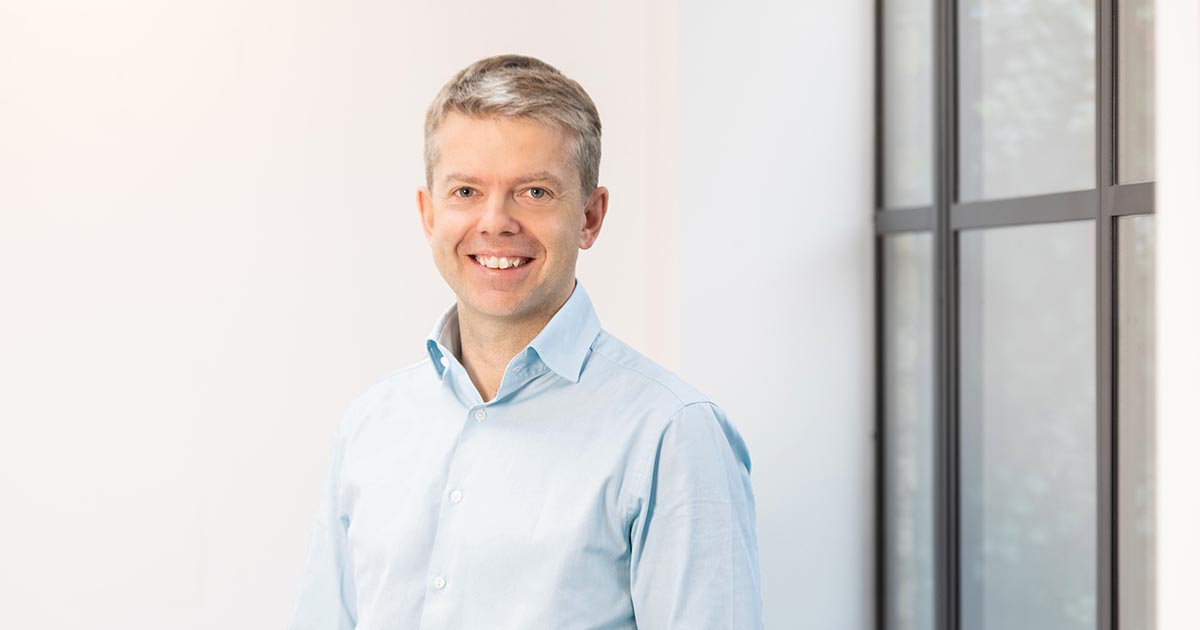
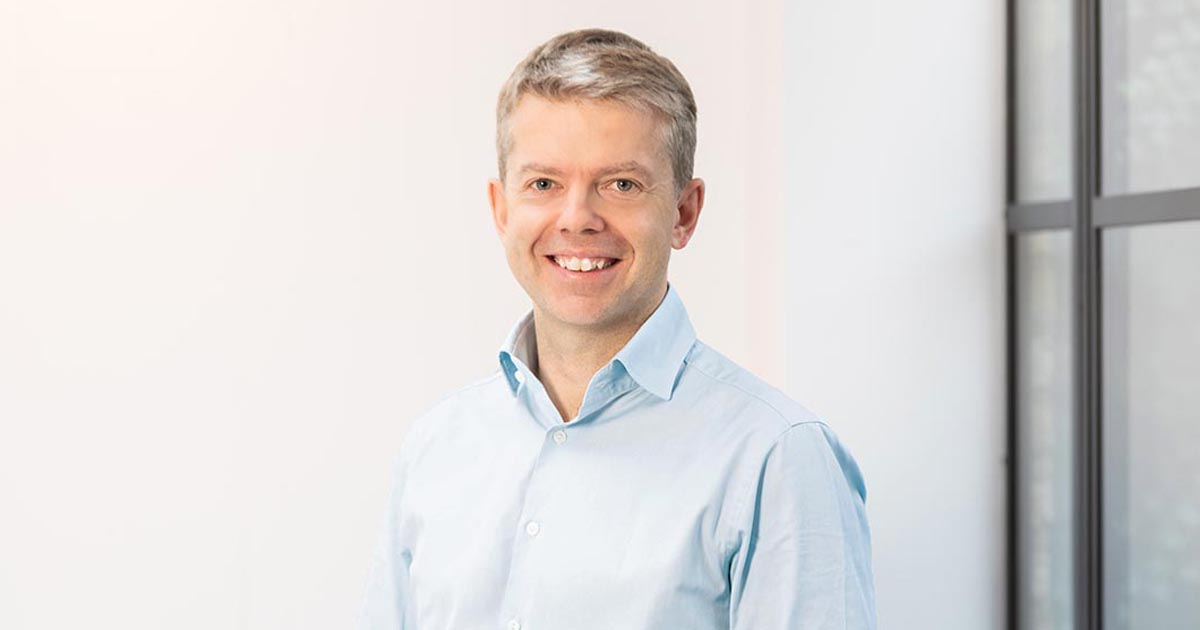
Client feedback

diff --git a/src/components/Benefits.js b/src/components/Benefits.js
@@ -10,13 +10,13 @@ const Benefits = () => (
 		<Container>
 			<h2 className='benefits__heading'>In This Video Masterclass You'll Discover:</h2>
 			<ul className='benefits__list'>
-				<li className='benefits__list-item'>The thinking mistake that costs business owners thousands that you can avoid</li>
+				<li className='benefits__list-item'>The thinking mistake that costs entrepreneurs thousands that you can avoid</li>
 				<li className='benefits__list-item'>The biggest underused online asset that you can turn into an engine of revenue</li>
-				<li className='benefits__list-item'>A step-by-step guide to a huge shortcut to online partnerships that can get you turbo charged growth</li>
-				<li className='benefits__list-item'>How to create passive recurring revenue for your business so you can increase your income and reduce your stress</li>
+				<li className='benefits__list-item'>A HUGE shortcut to online partnerships that can turbo charge your growth guide to a huge shortcut to online partnerships that can get you turbo charged growth</li>
+				<li className='benefits__list-item'>A step-by-step guide to PASSIVE recurring revenue for your business so you can reduce your stress and increase your income </li>
 			</ul>
 			<p className='benefits__para'><strong>And lots LOTS more!</strong></p>
-			<p className='benefits__para'>This is a unique chance to learn what really works online and get a huge shortcut in your business progress</p>
+			<p className='benefits__para'><strong>This is a unique chance to learn what really works online.</strong></p>
 			<p className='spaced'><strong>Click here to watch the video masterclass:</strong></p>
 			<button className='btn'>Show Me The Video</button>
 		</Container>

diff --git a/src/components/Intro.js b/src/components/Intro.js
@@ -8,20 +8,26 @@ import Container from './Container'
 // Video
 import Video from '../video/intro/feel-good-inc.mp4'
 
-const Intro = () => (
-	<section className='intro'>
-		<Container>
-			<video autoPlay muted loop className="intro__video">
-				<source src={Video} type="video/mp4"/>
-			</video>
+export default function Intro() {
+	const openModal = () => {
+		alert()
+	}
 
-			<div className='intro__copy'>
-				<div className='intro__logo'>Transform My Business</div>
-				<h1 className='intro__heading'>How you can make more revenue online without wasting time or burning cash</h1>
-				<button className='btn'>Show Me The Video</button>
-			</div>
-		</Container>
-	</section>
-)
+	return (
+		<section className='intro'>
+			<Container>
+				<video autoPlay muted loop className="intro__video">
+					<source src={Video} type="video/mp4"/>
+				</video>
 
-export default Intro
+				<div className='intro__copy'>
+					<h1 className='intro__heading'>How I built Transform My Poker</h1>
+					<h2 className='intro__subheading'>*or how you can make more revenue online without wasting time or
+						burning cash</h2>
+					<button onClick={openModal} className='btn'>Show Me The Video</button>
+				</div>
+			</Container>
+		</section>
+	)
+}
+

diff --git a/src/scss/components/_btn.scss b/src/scss/components/_btn.scss
@@ -4,7 +4,7 @@
 	background: color('amber');
 	border-radius: calc-rem(30px);
 	color: color('torea-bay');
-	font-size: calc-rem(15px);
+	font-size: calc-rem(18px);
 	font-weight: 700;
 	letter-spacing: calc-rem(0.6px);
 	padding: calc-rem(15px) calc-rem(20px);
@@ -12,35 +12,18 @@
 	white-space: nowrap;
 	will-change: transform;
 
-	&::after {
-		@include pseudo(inline-block, initial, '');
-		background-image: url('../img/icons/video.svg');
-		background-position: right center;
-		background-repeat: no-repeat;
-		background-size: contain;
-		height: 30px;
-		margin-left: calc-rem(10px);
-		width: 30px;
-	}
-
 	&:hover,
 	&:focus {
 		transform: scale(1.04);
 	}
 
-	&--no-icon {
-		&::after {
-			display: none;
-		}
-	}
-
 	@include sm {
-		font-size: calc-rem(16px);
+		font-size: calc-rem(19px);
 		padding: calc-rem(15px) calc-rem(30px);
 	}
 
 	@include md {
-		font-size: calc-rem(18px);
+		font-size: calc-rem(20px);
 		padding: calc-rem(15px) calc-rem(40px);
 	}
 }

diff --git a/src/scss/base/_typography.scss b/src/scss/base/_typography.scss
@@ -14,30 +14,29 @@ h3,
 h4,
 h5,
 h6 {
+	line-height: 1.4;
 	margin: 0;
 }
 
 h1,
 h2 {
-	font-size: calc-rem(20px);
-	font-weight: 400;
-	line-height: 1.4;
+	font-size: calc-rem(22px);
 
 	@include sm {
-		font-size: calc-rem(25px);
+		font-size: calc-rem(27px);
 	}
 
 	@include md {
-		font-size: calc-rem(30px);
+		font-size: calc-rem(32px);
 	}
 
 	@include lg {
-		font-size: calc-rem(35px);
+		font-size: calc-rem(37px);
 	}
 }
 
 h1 {
-	margin: 0 0 calc-rem(25px);
+	margin: 0 0 calc-rem(10px);
 }
 
 h2 {

diff --git a/src/scss/components/_sign-up-modal.scss b/src/scss/components/_sign-up-modal.scss
@@ -2,6 +2,7 @@
 .sign-up-modal {
 	@include flex-container(row, center, center);
 	background: rgba(0, 0, 0, 0.7);
+	display: none;
 	height: 100%;
 	left: 0;
 	padding: calc-rem(40px) 0;
@@ -61,5 +62,11 @@
 	}
 
 	@include md {
+	}
+}
+
+.modal-open {
+	.sign-up-modal {
+		display: block;
 	}
 }

diff --git a/src/scss/components/_presenter.scss b/src/scss/components/_presenter.scss
@@ -5,6 +5,12 @@
 
 	&__img {
 		margin-bottom: calc-rem(20px);
-		max-width: calc-rem(800px);
+		max-width: 80%;
+	}
+
+	@include sm {
+		&__img {
+			max-width: calc-rem(700px);
+		}
 	}
 }

diff --git a/src/scss/components/_intro.scss b/src/scss/components/_intro.scss
@@ -8,9 +8,8 @@
 		flex-wrap: wrap;
 	}
 
-	&__logo {
-		font-size: calc-rem(30px);
-		font-weight: 700;
+	&__subheading {
+		font-weight: 400;
 	}
 
 	&__video {
